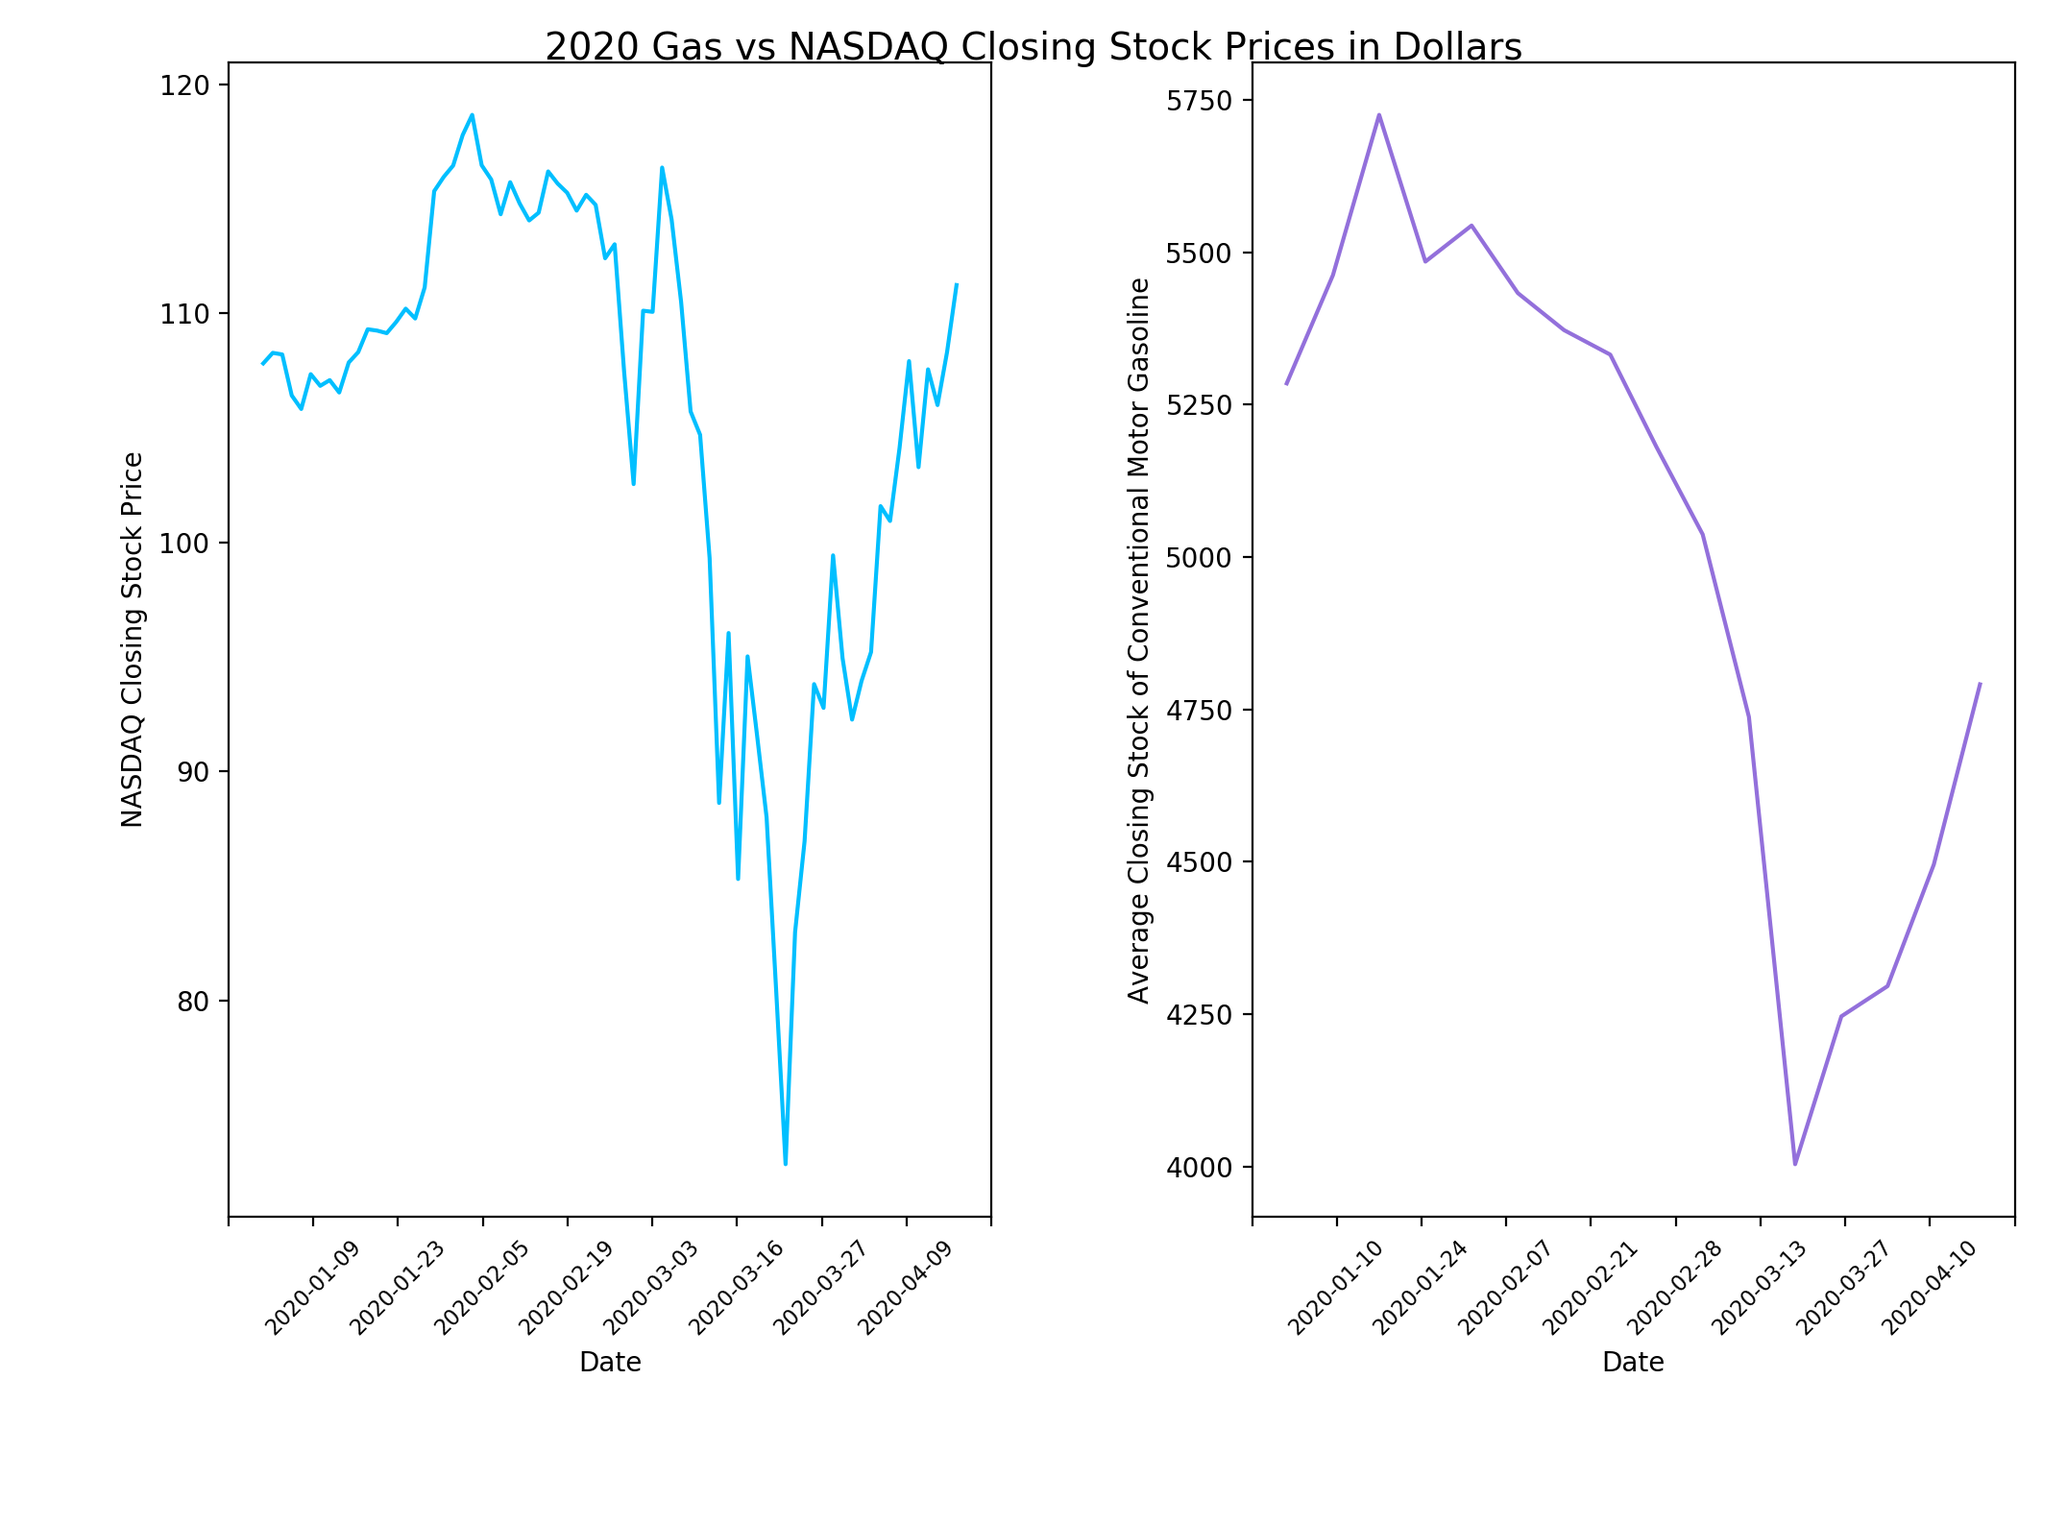
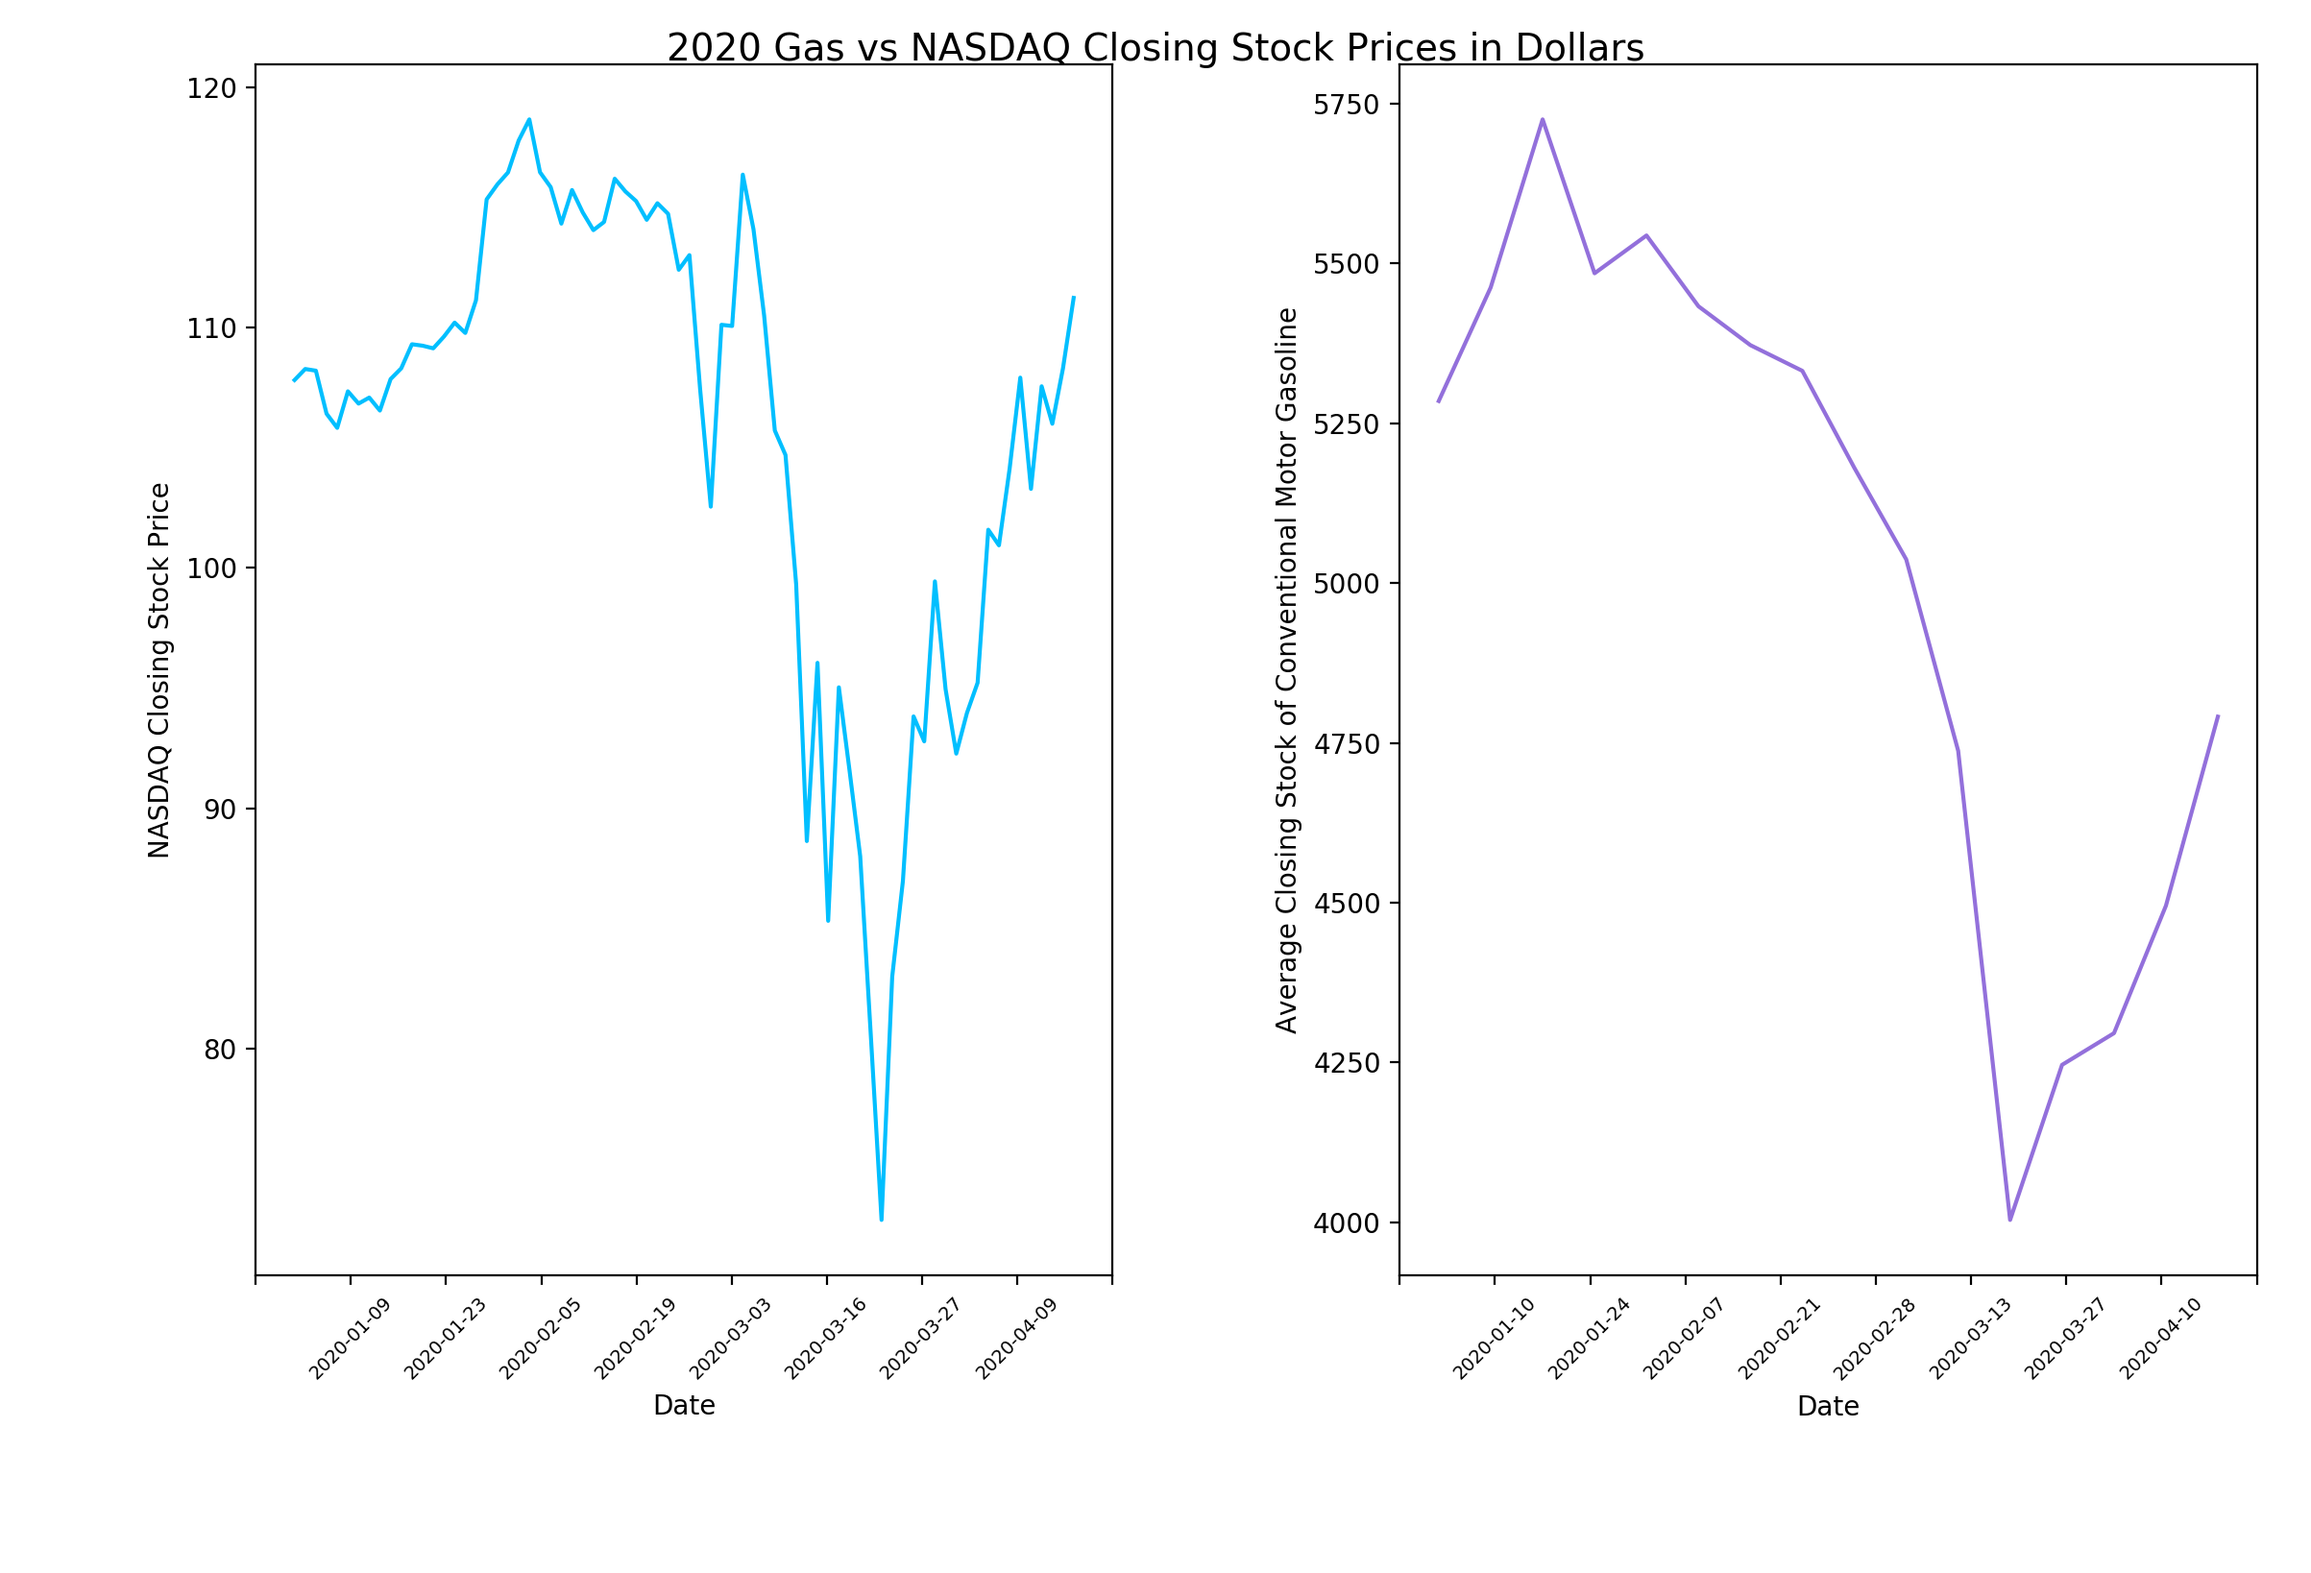
Updated Visuals

diff --git a/StocksAPI.py b/StocksAPI.py
@@ -75,7 +75,7 @@ d, p = zip(*n)
 fig = plt.figure(figsize=(10,5))
 ax = fig.add_subplot(111)
 ax.plot(d, p, color = 'deepskyblue')
-plt.xticks(fontsize = 8, rotation = 45)
+plt.xticks(fontsize = 7, rotation = 45)
 ax.xaxis.set_major_locator(ticker.LinearLocator(10))
 ax.set_xlabel('Date')
 ax.set_ylabel('NASDAQ Closing Stock Price')
@@ -165,14 +165,14 @@ ax1.plot(nasdate_2020, nasprice_2020, color = 'deepskyblue')
 plt.suptitle('2020 Gas vs NASDAQ Closing Stock Prices in Dollars', fontsize = 14)
 plt.ylabel('NASDAQ Closing Stock Price', fontsize = 10)
 plt.xlabel('Date')
-plt.xticks(fontsize = 8, rotation = 45)
+plt.xticks(fontsize = 7, rotation = 45)
 ax1.xaxis.set_major_locator(ticker.LinearLocator(10))
 
 
 ax2 = plt.subplot(1, 2, 2)
 plt.plot(gasdate_2020, gasprice_2020, color = 'mediumpurple')
 plt.xlabel('Date')
-plt.xticks(fontsize = 8, rotation = 45)
+plt.xticks(fontsize = 7, rotation = 45)
 ax2.xaxis.set_major_locator(ticker.LinearLocator(10))
 plt.ylabel('Average Closing Stock of Conventional Motor Gasoline', fontsize = 10)
 
